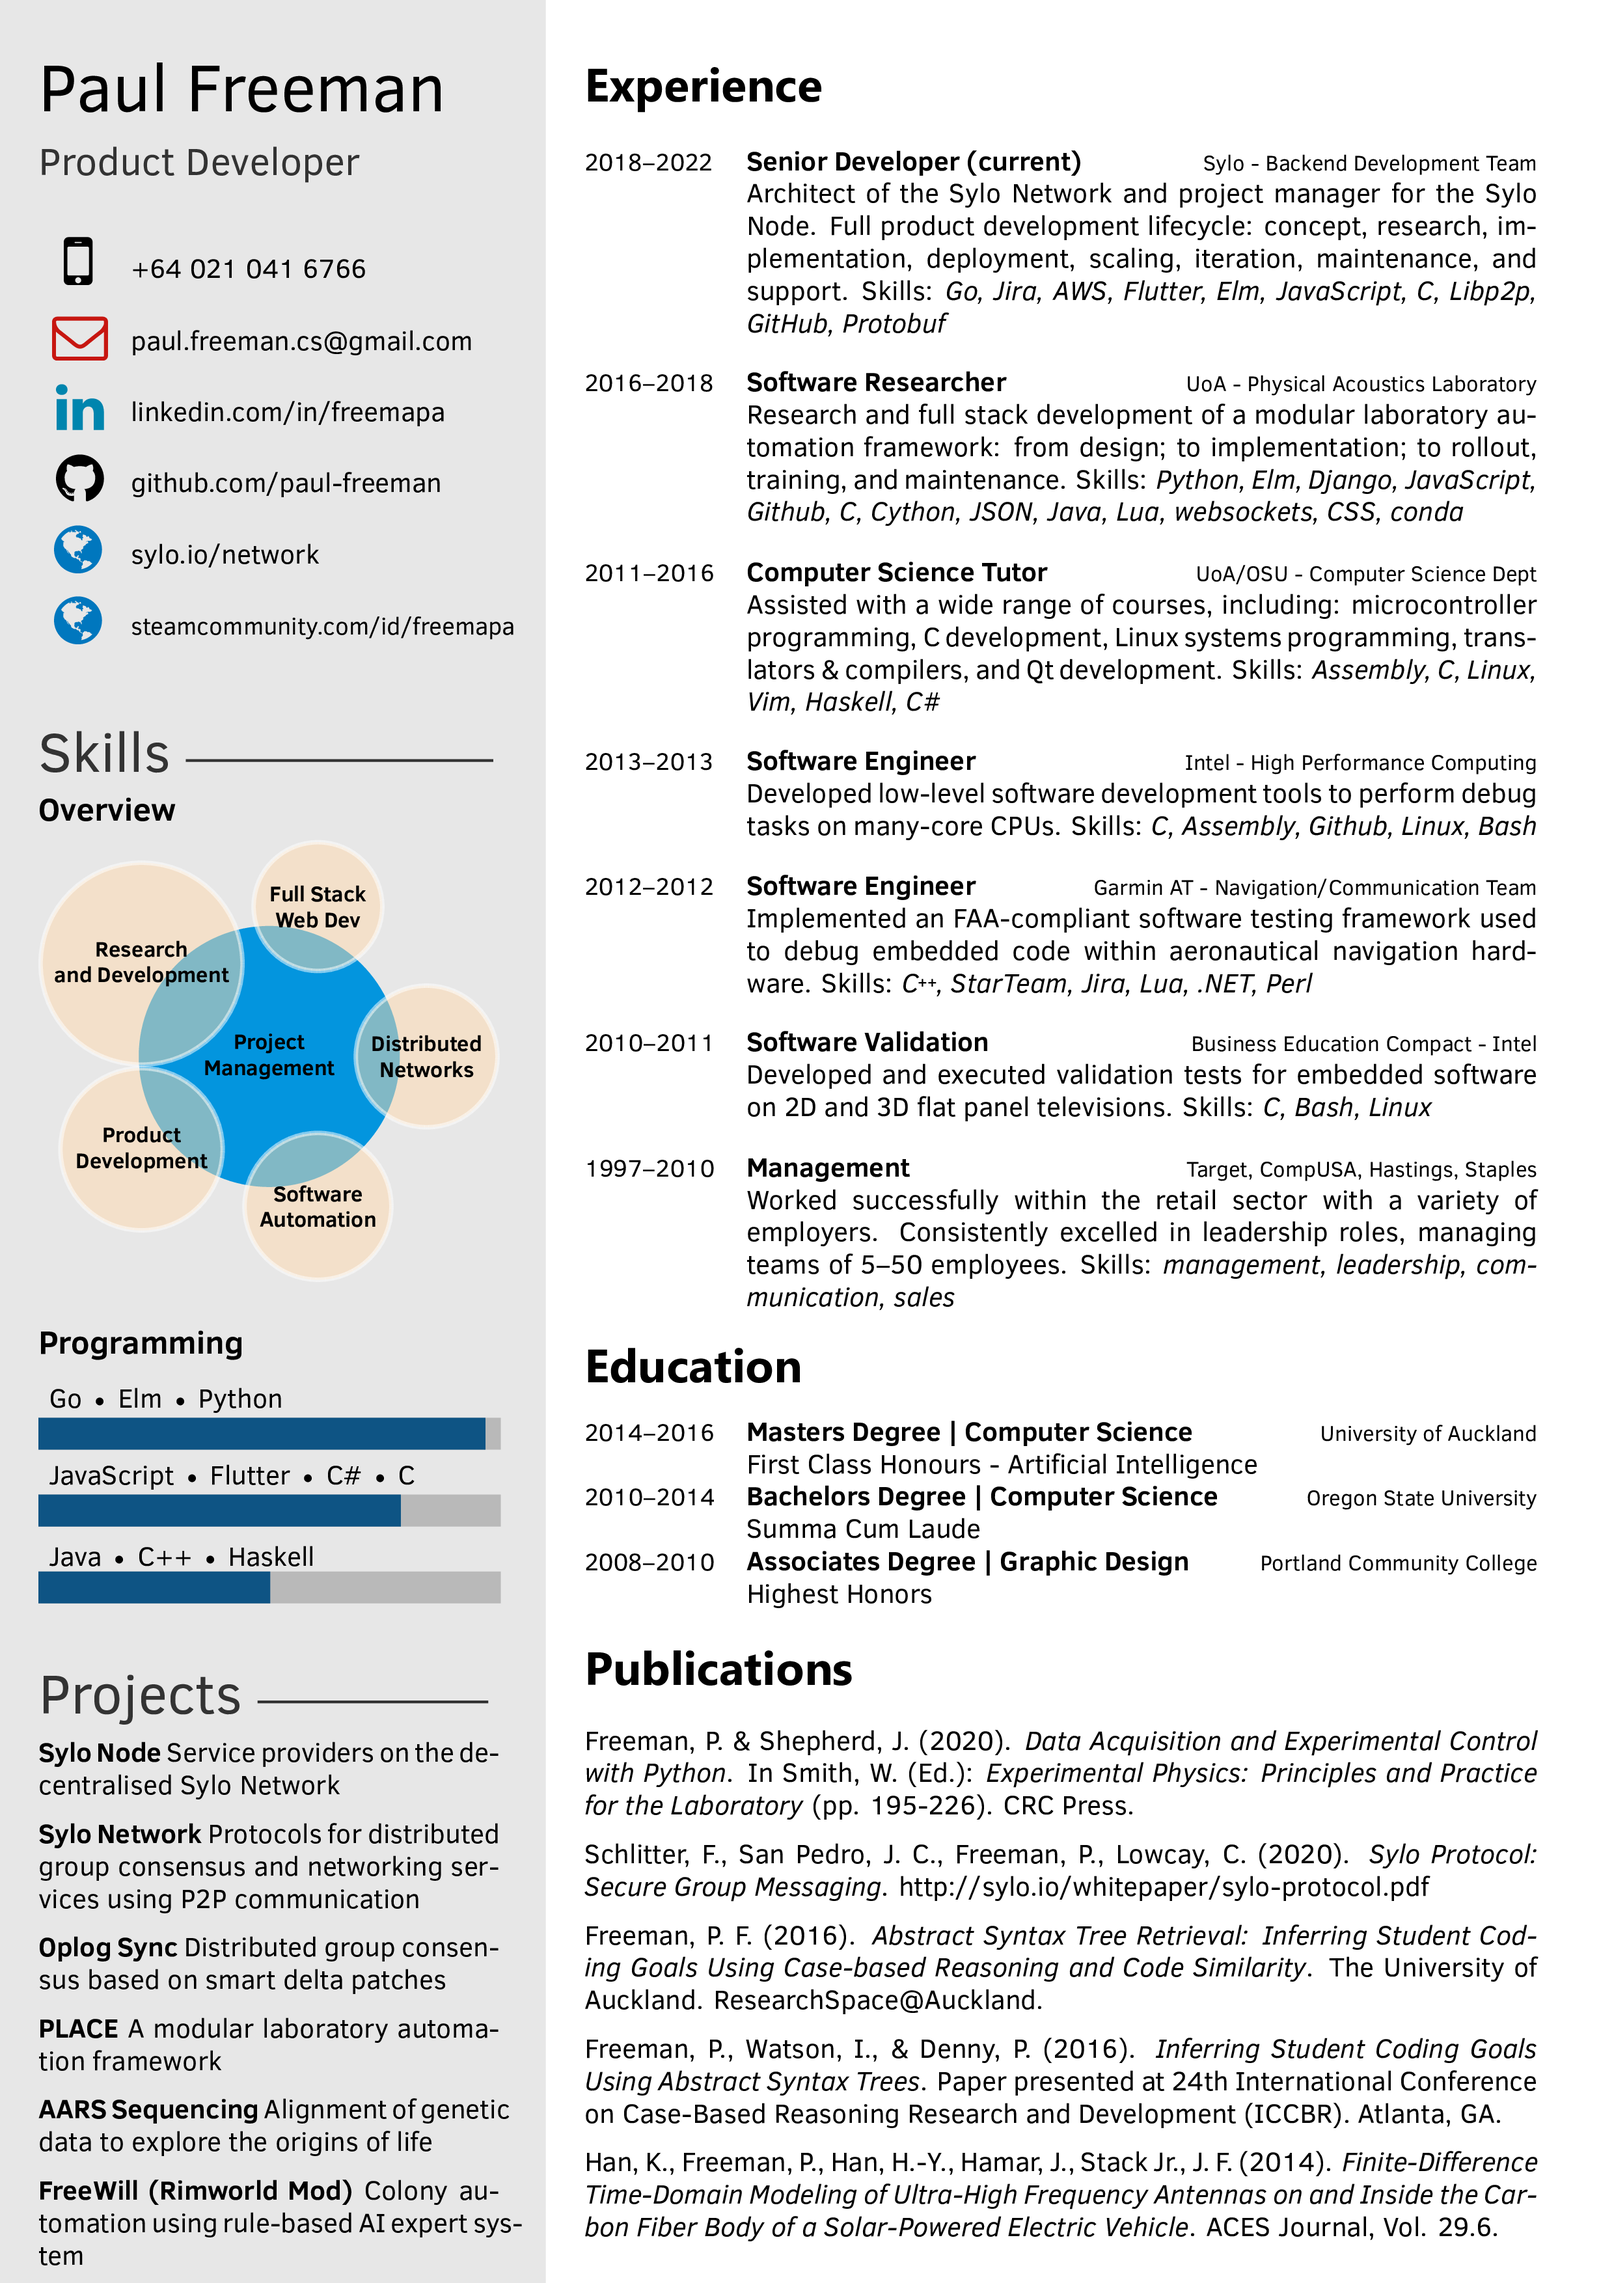
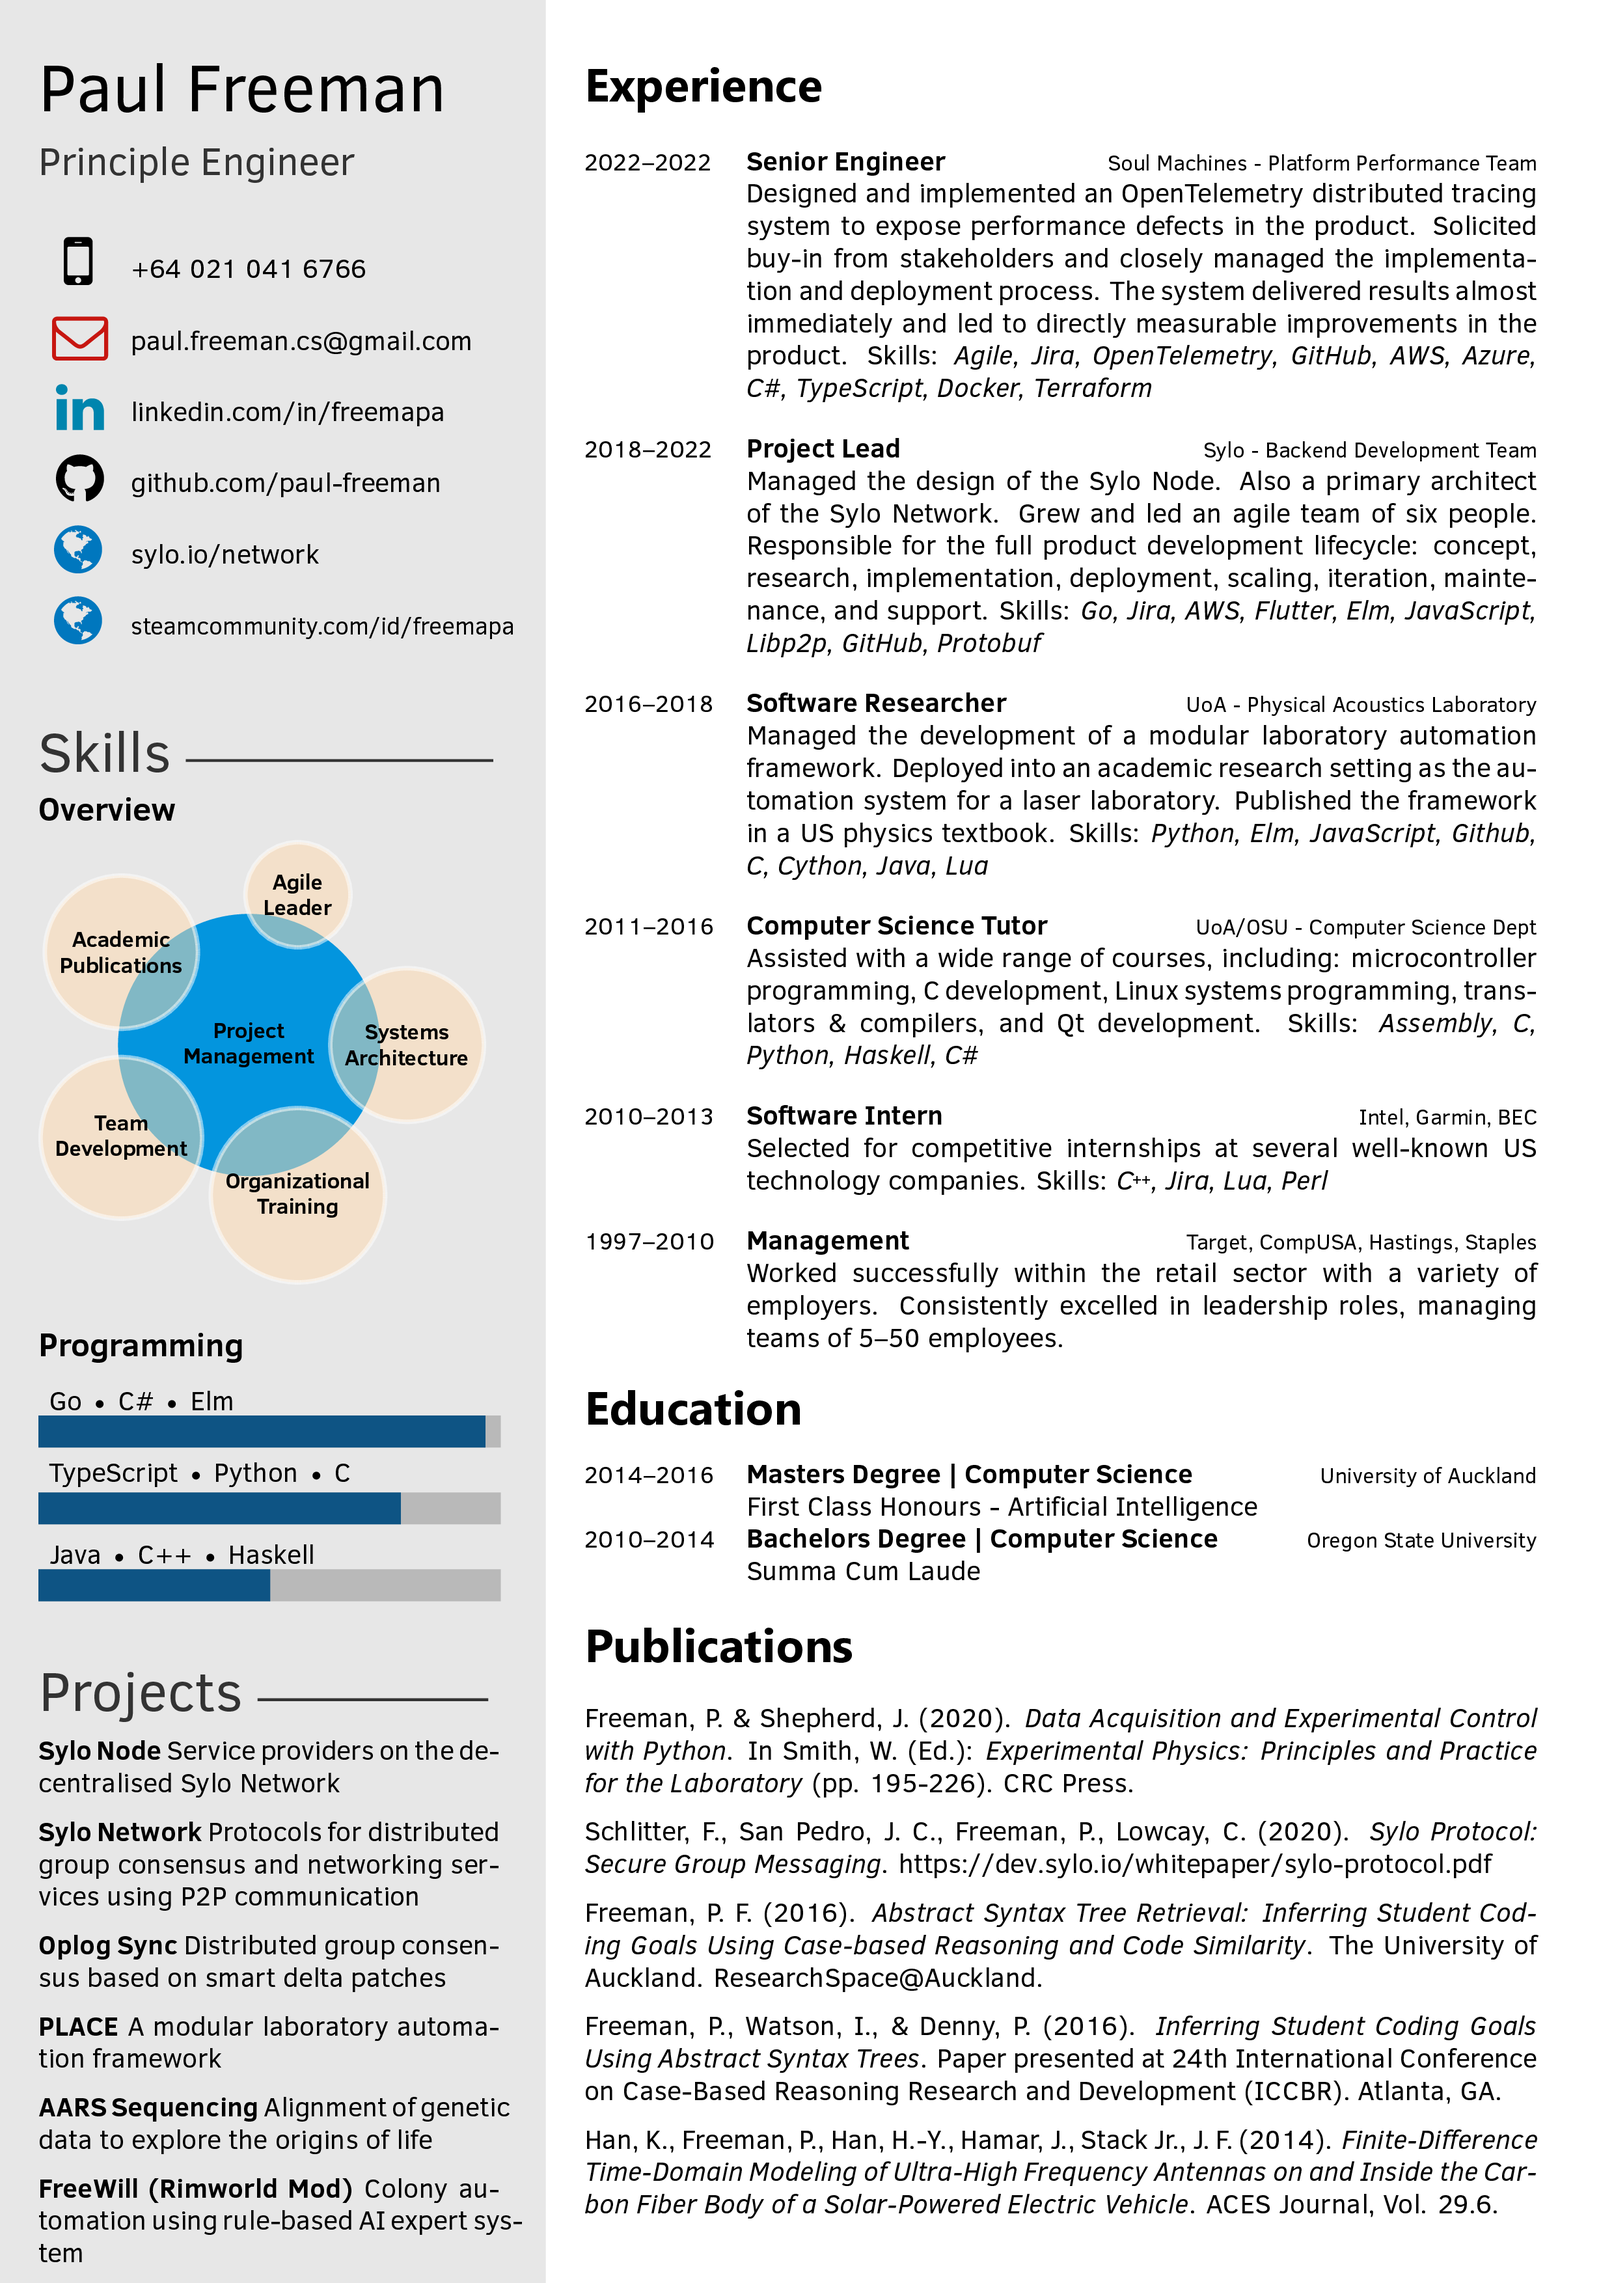
update cv

diff --git a/paul-freeman.tex b/paul-freeman.tex
@@ -14,7 +14,7 @@
 
 \documentclass[a4paper]{twentysecondcv}
 \cvname{Paul Freeman}
-\cvjobtitle{Product Developer}
+\cvjobtitle{Principle Engineer}
 \cvlinkedin{linkedin.com/in/freemapa}
 \cvgithub{github.com/paul-freeman}
 \cvnumberphone{+64 021 041 6766}
@@ -22,17 +22,17 @@
 \cvmail{paul.freeman.cs@gmail.com}
 
 \programming{{Java $\textbullet$ C++ $\textbullet$ Haskell / 3},
-             {JavaScript $\textbullet$ Flutter $\textbullet$ C\# $\textbullet$ C / 4.7},
-             {Go $\textbullet$ Elm $\textbullet$ Python / 5.8}}
+             {TypeScript $\textbullet$ Python $\textbullet$ C / 4.7},
+             {Go $\textbullet$ C\# $\textbullet$ Elm / 5.8}}
 
 \newcommand\skills{
     \smartdiagram[bubble diagram]{
         \textbf{Project}\\\textbf{Management},
-        \textbf{Full Stack}\\\textbf{Web Dev},
-        \textbf{Research}\\\textbf{and Development},
-        \textbf{Product}\\\textbf{Development},
-        \textbf{Software}\\\textbf{Automation},
-        \textbf{Distributed}\\\textbf{Networks}
+        \textbf{Agile}\\\textbf{Leader},
+        \textbf{Academic}\\\textbf{Publications},
+        \textbf{Team}\\\textbf{Development},
+        \textbf{Organizational}\\\textbf{Training},
+        \textbf{Systems}\\\textbf{Architecture}
     }
 }
 
@@ -61,78 +61,73 @@
 
 \section{Experience}
 \begin{twenty}
+\twentyitem{2022--2022}
+    {}
+    {Senior Engineer}
+    {\href{https://www.soulmachines.com/}{Soul Machines - Platform Performance Team}}
+    {}
+    {Designed and implemented an OpenTelemetry distributed tracing system to
+    expose performance defects in the product. Solicited buy-in from
+    stakeholders and closely managed the implementation and deployment process.
+    The system delivered results almost immediately and led to directly
+    measurable improvements in the product.
+    Skills: \emph{Agile, Jira, OpenTelemetry, GitHub, AWS, Azure, C\#,
+    TypeScript, Docker, Terraform}} \\
+
 \twentyitem{2018--2022}
-           {}
-           {Senior Developer (current)}
-           {\href{https://sylo.io/}{Sylo - Backend Development Team}}
-           {}
-           {Architect of the Sylo Network and project manager for the Sylo Node.
-           Full product development lifecycle: concept, research, implementation,
-           deployment, scaling, iteration, maintenance, and support.
-           Skills: \emph{Go, Jira, AWS, Flutter, Elm, JavaScript, C, Libp2p, GitHub,
-           Protobuf}} \\
+    {}
+    {Project Lead}
+    {\href{https://sylo.io/}{Sylo - Backend Development Team}}
+    {}
+    {Managed the design of the Sylo Node. Also a primary architect of the Sylo
+    Network. Grew and led an agile team of six people. Responsible for the full
+    product development lifecycle: concept, research, implementation,
+    deployment, scaling, iteration, maintenance, and support.
+    Skills: \emph{Go, Jira, AWS, Flutter, Elm, JavaScript, Libp2p, GitHub,
+    Protobuf}} \\
 
 \twentyitem{2016--2018}
-           {}
-           {Software Researcher}
-           {\href{https://pal.auckland.ac.nz/}{UoA - Physical Acoustics Laboratory}}
-           {}
-           {Research and full stack development of a modular laboratory automation
-           framework: from design; to implementation; to rollout, training, and
-           maintenance.
-           Skills: \emph{Python, Elm, Django, JavaScript, Github, C, Cython, JSON,
-           Java, Lua, websockets, CSS, conda}} \\
+    {}
+    {Software Researcher}
+    {\href{https://pal.auckland.ac.nz/}{UoA - Physical Acoustics Laboratory}}
+    {}
+    {Managed the development of a modular laboratory automation framework.
+    Deployed into an academic research setting as the automation system for a
+    laser laboratory. Published the framework in a US physics textbook.
+    Skills: \emph{Python, Elm, JavaScript, Github, C, Cython, Java, Lua}} \\
 
 \twentyitem{2011--2016}
-           {}
-           {Computer Science Tutor}
-           {\href{http://www.auckland.ac.nz/}{UoA}/\href{http://www.oregonstate.edu/}{OSU} - Computer Science Dept}
-           {}
-           {Assisted with a wide range of courses, including: microcontroller
-           programming, C development, Linux systems programming, translators
-           \& compilers, and Qt development.
-           Skills: \emph{Assembly, C, Linux, Vim, Haskell, C\#}} \\
+    {}
+    {Computer Science Tutor}
+    {\href{http://www.auckland.ac.nz/}{UoA}/\href{http://www.oregonstate.edu/}{OSU} - Computer Science Dept}
+    {}
+    {Assisted with a wide range of courses, including: microcontroller
+    programming, C development, Linux systems programming, translators
+    \& compilers, and Qt development.
+    Skills: \emph{Assembly, C, Python, Haskell, C\#}} \\
 
-\twentyitem{2013--2013}
-           {}
-           {Software Engineer}
-           {\href{https://www.intel.com}{Intel - High Performance Computing}}
-           {}
-           {Developed low-level software development tools to perform debug
-           tasks on many-core CPUs.
-           Skills: \emph{C, Assembly, Github, Linux, Bash}} \\
-
-\twentyitem{2012--2012}
-           {}
-           {Software Engineer}
-           {\href{http://www.garmin.com}{Garmin AT - Navigation/Communication Team}}
-           {}
-           {Implemented an FAA-compliant software testing framework used to
-           debug embedded code within aeronautical navigation hardware.
-           Skills: \emph{\CC, StarTeam, Jira, Lua,~.NET, Perl}} \\
-
-\twentyitem{2010--2011}
-           {}
-           {Software Validation}
-           {\href{https://www.becpdx.org/}{Business Education Compact - Intel}}
-           {}
-           {Developed and executed validation tests for embedded software on 2D
-           and 3D flat panel televisions.
-           Skills: \emph{C, Bash, Linux}} \\
+\twentyitem{2010--2013}
+    {}
+    {Software Intern}
+    {\href{https://www.intel.com}{Intel},
+    \href{http://www.garmin.com}{Garmin},
+    \href{https://www.becpdx.org/}{BEC}}
+    {}
+    {Selected for competitive internships at several well-known US technology
+    companies.
+    Skills: \emph{\CC, Jira, Lua, Perl}} \\
 
 \twentyitem{1997--2010}
-           {}
-           {Management}
-           {\href{https://www.target.com/}{Target},
-           \href{https://en.wikipedia.org/wiki/CompUSA}{CompUSA},
-           \href{https://en.wikipedia.org/wiki/Hastings\_Entertainment}{Hastings},
-           \href{https://www.staples.com/}{Staples}}
-           {}
-           {Worked
-           successfully within the retail sector with a variety of employers.
-           Consistently excelled in leadership roles, managing teams of 5--50
-           employees.
-           Skills: \emph{management, leadership, communication, sales}}
+    {}
+    {Management}
+    {\href{https://www.target.com/}{Target},
+    \href{https://en.wikipedia.org/wiki/CompUSA}{CompUSA},
+    \href{https://en.wikipedia.org/wiki/Hastings\_Entertainment}{Hastings},
+    \href{https://www.staples.com/}{Staples}}
+    {}
+    {Worked successfully within the retail sector with a variety of employers.
+    Consistently excelled in leadership roles, managing teams of 5--50
+    employees.}
 
 \end{twenty}
 
@@ -140,7 +135,7 @@
 \begin{twenty}
     \twentyitem{2014--2016}{}{Masters Degree | Computer Science}{\href{https://www.cs.auckland.ac.nz/en.html}{University of Auckland}}{}{First Class Honours - Artificial Intelligence}
     \twentyitem{2010--2014}{}{Bachelors Degree | Computer Science}{\href{http://eecs.oregonstate.edu/academics/undergraduates/computer-science}{Oregon State University}}{}{Summa Cum Laude}
-    \twentyitem{2008--2010}{}{Associates Degree | Graphic Design}{\href{https://www.pcc.edu/programs/graphic-design/}{Portland Community College}}{}{Highest Honors}
+    % \twentyitem{2008--2010}{}{Associates Degree | Graphic Design}{\href{https://www.pcc.edu/programs/graphic-design/}{Portland Community College}}{}{Highest Honors}
 \end{twenty}
 
 \section{Publications}
@@ -150,7 +145,7 @@ Control with Python}. In Smith, W. (Ed.): \emph{Experimental Physics: Principles
 Laboratory} (pp. 195-226). CRC Press.
 
 Schlitter, F., San Pedro, J. C., Freeman, P., Lowcay, C. (2020). \emph{Sylo
-Protocol: Secure Group Messaging}. \href{http://sylo.io/whitepaper/sylo-protocol.pdf}{http://sylo.io/whitepaper/sylo-protocol.pdf}
+Protocol: Secure Group Messaging}. \href{https://dev.sylo.io/whitepaper/sylo-protocol.pdf}{https://dev.sylo.io/whitepaper/sylo-protocol.pdf}
 
 Freeman, P. F. (2016). \emph{Abstract Syntax Tree Retrieval: Inferring Student
 Coding Goals Using Case-based Reasoning and Code Similarity}. The University of
